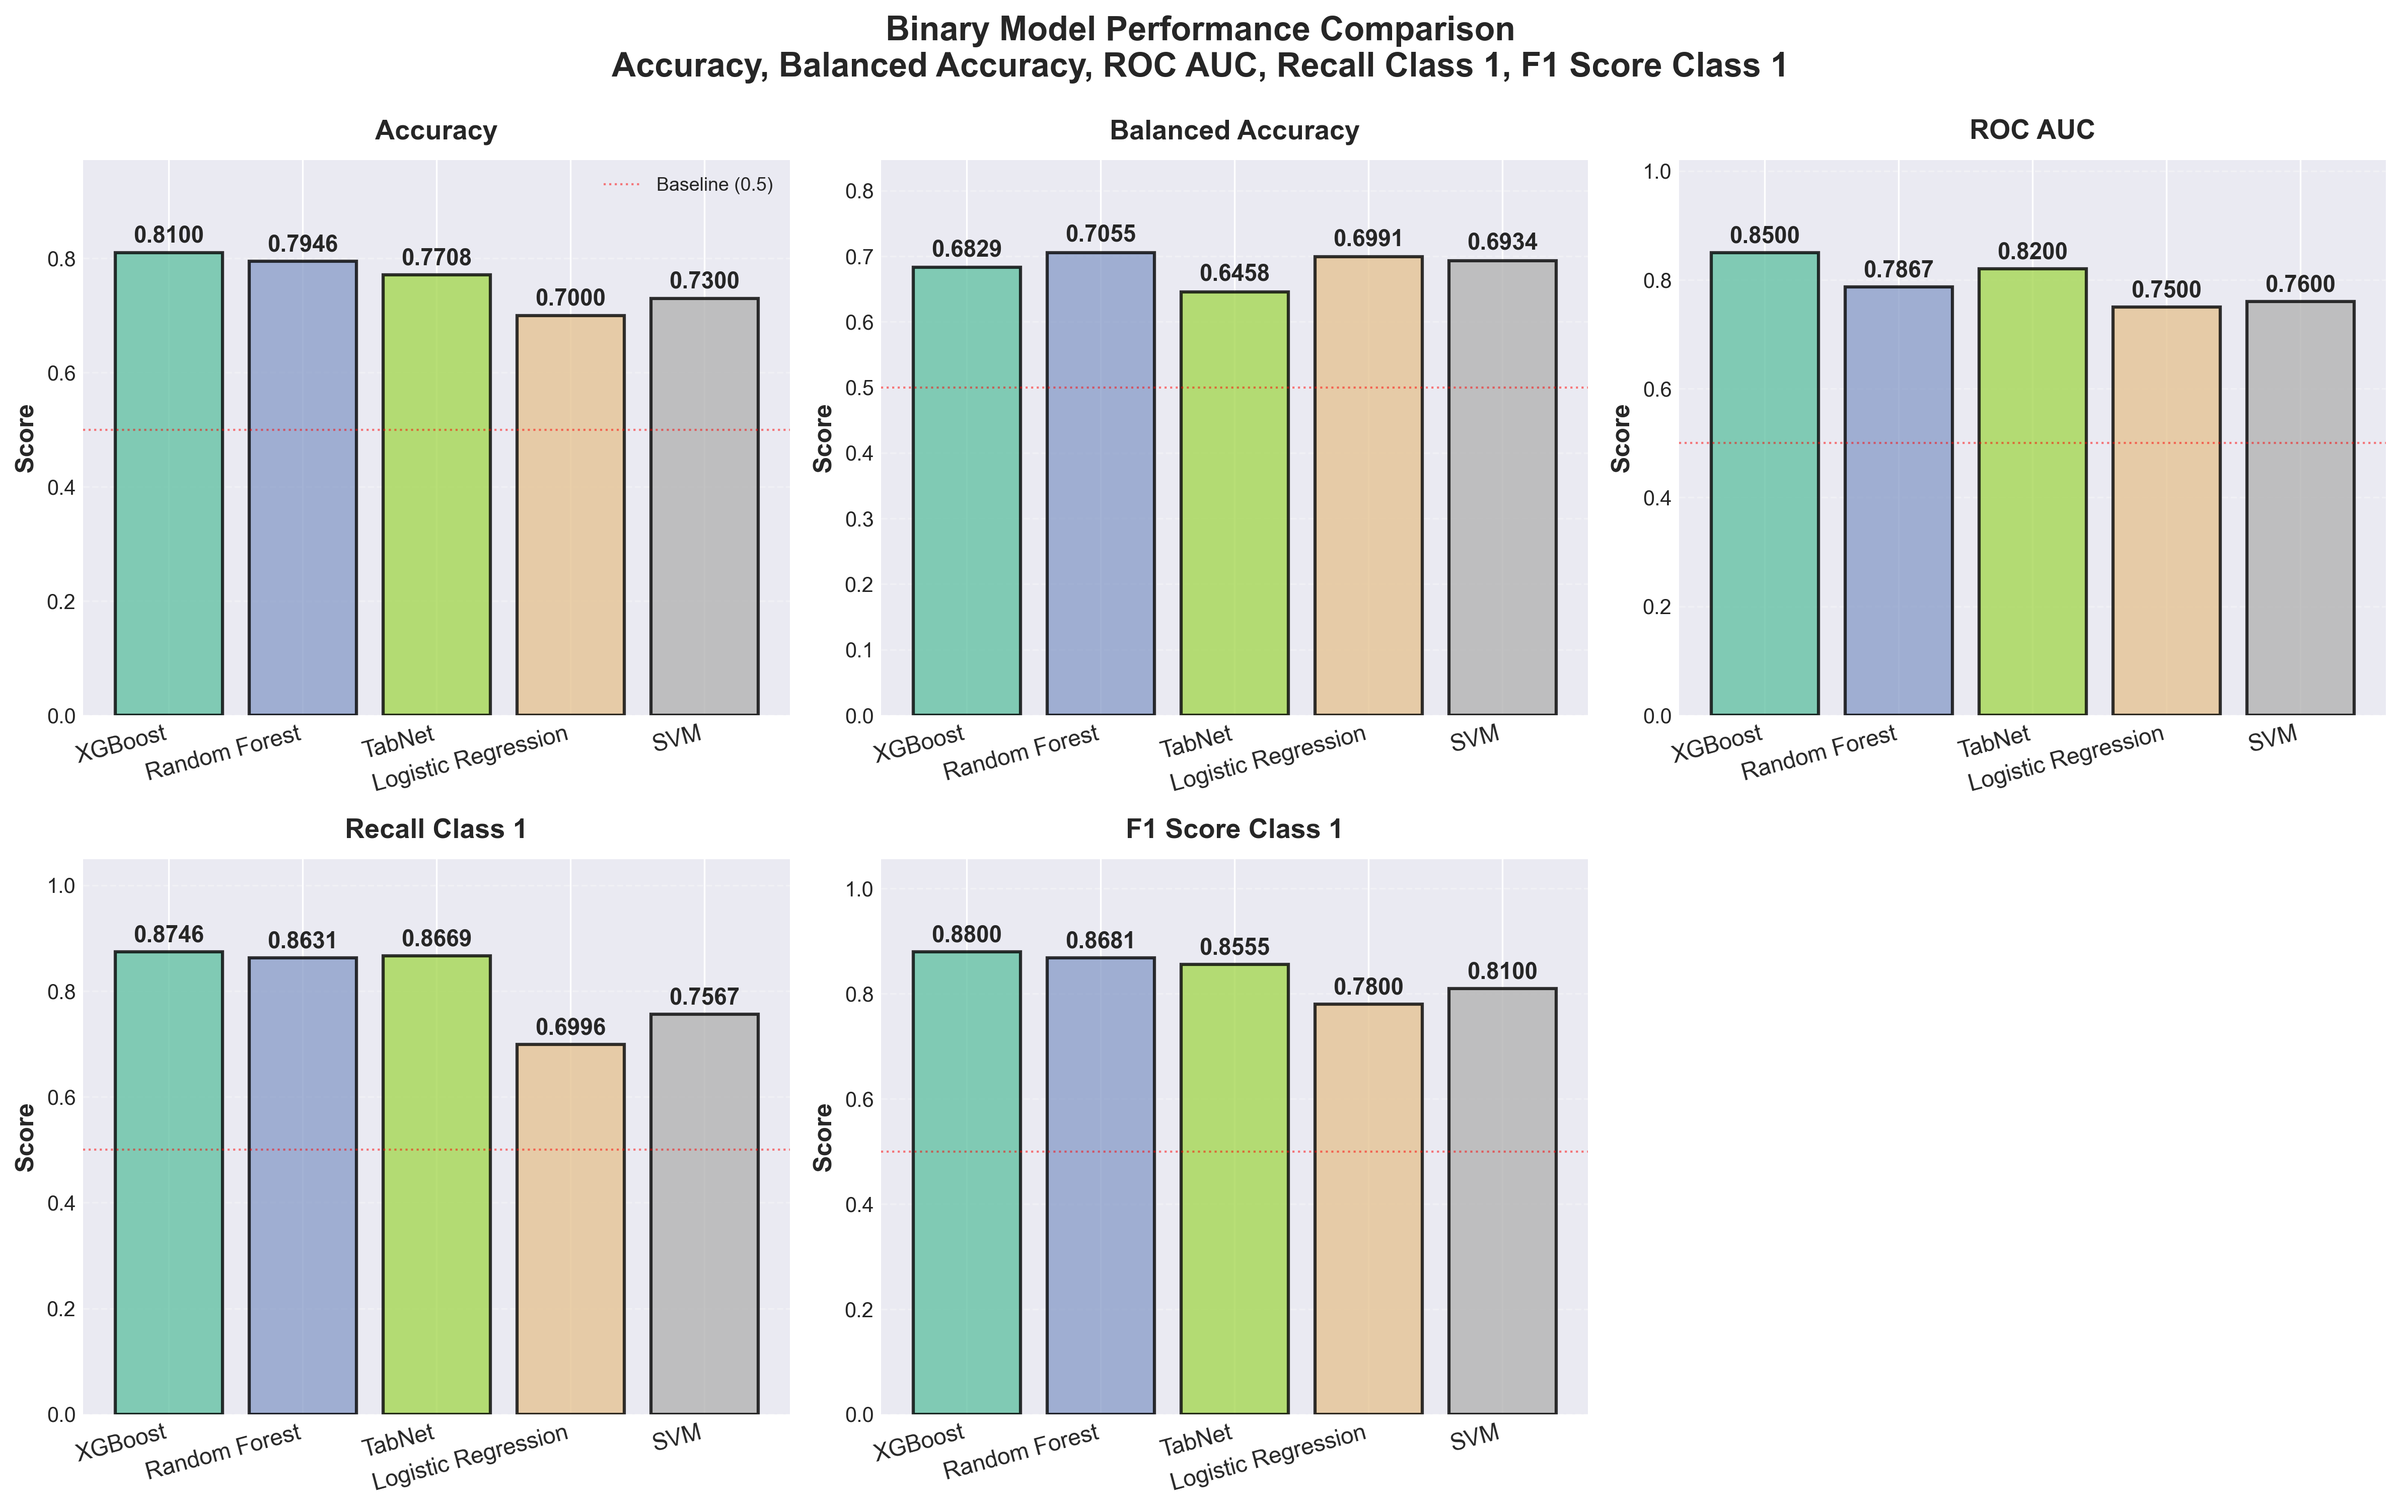
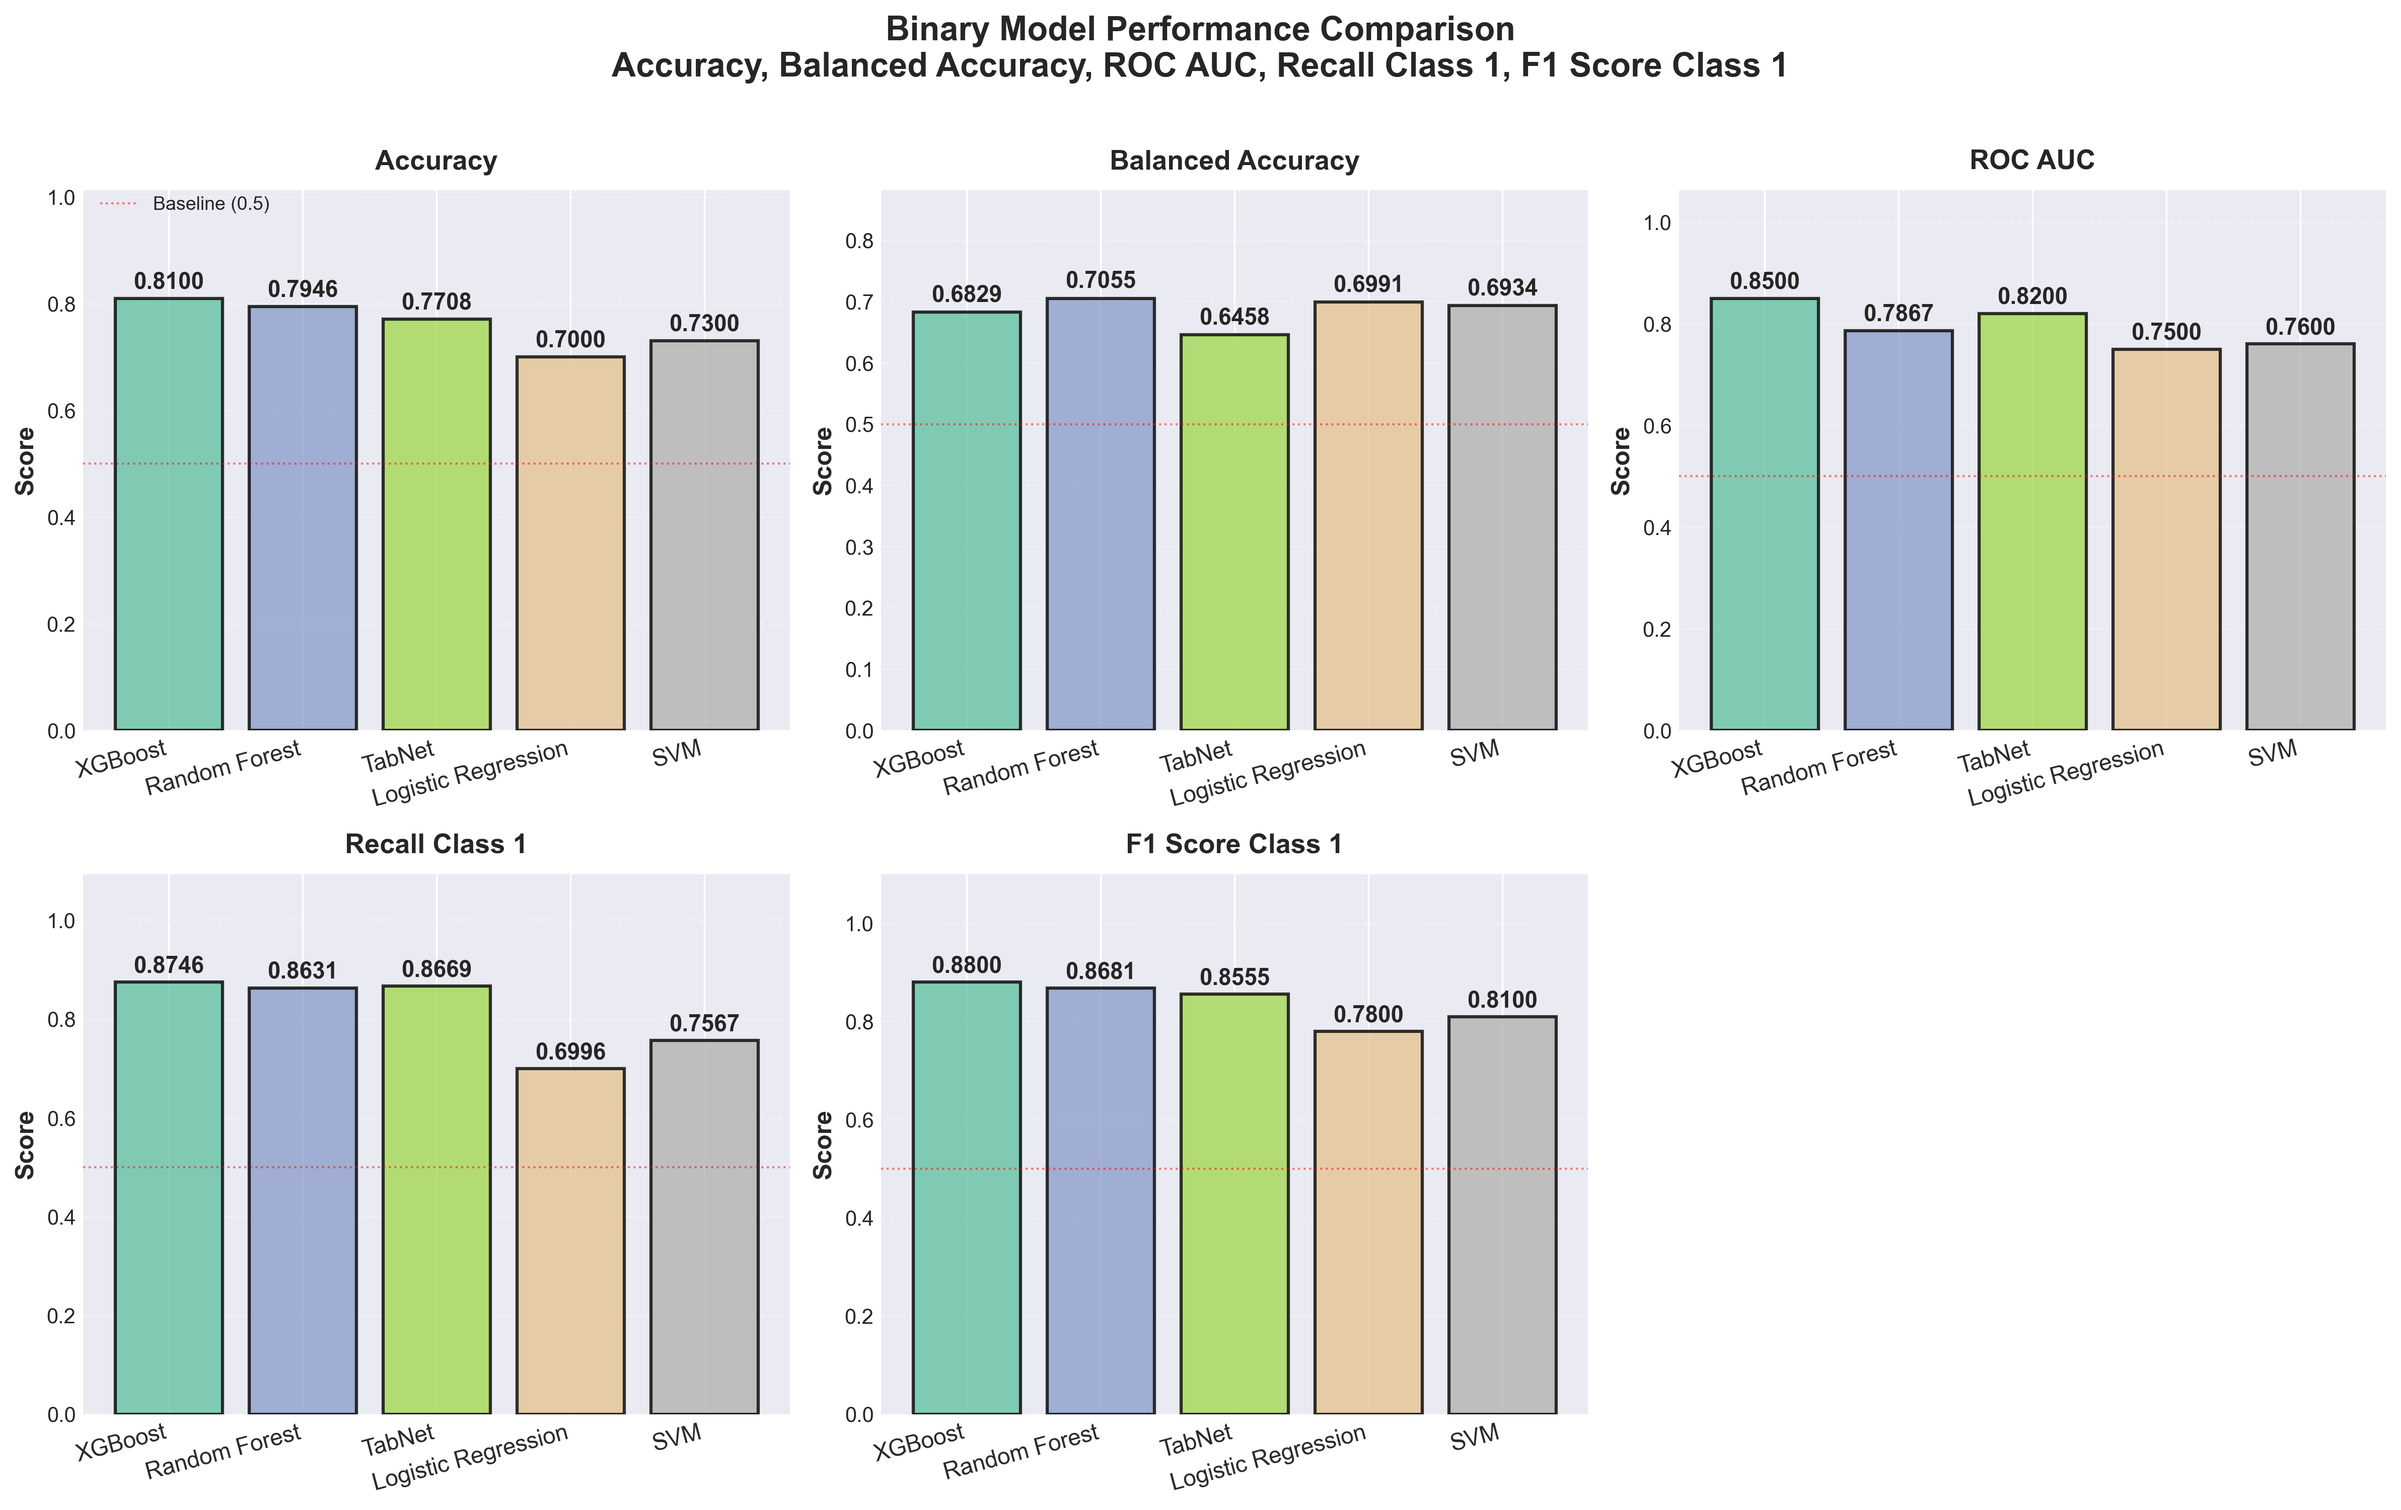
visualization changes

diff --git a/results/binary_model_comparison_visualization.py b/results/binary_model_comparison_visualization.py
@@ -88,16 +88,16 @@ def plot_binary_comparison(figsize=(16, 10)):
         ax.set_xticks(range(len(df)))
         ax.set_xticklabels(df.index, rotation=15, ha='right', fontsize=11)
         ax.grid(True, alpha=0.3, axis='y', linestyle='--')
-        ax.set_ylim([0, max(df[metric].max() * 1.2, 0.8)])
+        ax.set_ylim([0, max(df[metric].max() * 1.25, 0.85)])
         ax.axhline(y=0.5, color='red', linestyle=':', linewidth=1, alpha=0.5, label='Baseline (0.5)')
         if idx == 0:
-            ax.legend(fontsize=9)
+            ax.legend(fontsize=9, loc='upper left', bbox_to_anchor=(0, 1.02), framealpha=0.9)
     
     axes[5].axis('off')
     
     plt.suptitle('Binary Model Performance Comparison\nAccuracy, Balanced Accuracy, ROC AUC, Recall Class 1, F1 Score Class 1', 
                  fontsize=16, fontweight='bold', y=0.995)
-    plt.tight_layout()
+    plt.tight_layout(rect=[0, 0, 1, 0.98])  # Leave space at top for suptitle and legend
     
     return fig, axes
 
@@ -207,11 +207,11 @@ def plot_binary_grouped_bars(figsize=(14, 8)):
                  fontsize=16, fontweight='bold', pad=15)
     ax.set_xticks(x + width * (len(metrics) - 1) / 2)
     ax.set_xticklabels(df.index, fontsize=12, fontweight='bold')
-    ax.legend(loc='upper left', fontsize=11, framealpha=0.9)
+    ax.legend(loc='upper left', bbox_to_anchor=(0, 1.02), fontsize=11, framealpha=0.9, ncol=len(metrics))
     ax.grid(True, alpha=0.3, axis='y', linestyle='--')
-    ax.set_ylim([0, 1])
+    ax.set_ylim([0, 1.05])  # More space for legend
     
-    plt.tight_layout()
+    plt.tight_layout(rect=[0, 0, 1, 0.96])  # Leave space at top for legend
     
     return fig, ax
 

diff --git a/results/multiclass_model_comparison_visualization.py b/results/multiclass_model_comparison_visualization.py
@@ -91,13 +91,13 @@ def plot_multiclass_comparison(figsize=(16, 10)):
         ax.set_ylim([0, max(df[metric].max() * 1.2, 0.8)])
         ax.axhline(y=0.5, color='red', linestyle=':', linewidth=1, alpha=0.5, label='Baseline (0.5)')
         if idx == 0:
-            ax.legend(fontsize=9)
+            ax.legend(fontsize=9, loc='upper left', bbox_to_anchor=(0, 1.02), framealpha=0.9)
     
     axes[5].axis('off')
     
     plt.suptitle('Multiclass Model Performance Comparison\nAccuracy, Balanced Accuracy, ROC AUC, Recall Class 2, F1 Score Class 2', 
                  fontsize=16, fontweight='bold', y=0.995)
-    plt.tight_layout()
+    plt.tight_layout(rect=[0, 0, 1, 0.98])  # Leave space at top for suptitle and legend
     
     return fig, axes
 
@@ -207,11 +207,11 @@ def plot_multiclass_grouped_bars(figsize=(14, 8)):
                  fontsize=16, fontweight='bold', pad=15)
     ax.set_xticks(x + width * (len(metrics) - 1) / 2)
     ax.set_xticklabels(df.index, fontsize=12, fontweight='bold')
-    ax.legend(loc='upper left', fontsize=11, framealpha=0.9)
+    ax.legend(loc='upper left', bbox_to_anchor=(0, 1.02), fontsize=11, framealpha=0.9, ncol=len(metrics))
     ax.grid(True, alpha=0.3, axis='y', linestyle='--')
-    ax.set_ylim([0, 1])
+    ax.set_ylim([0, 1.05])  # More space for legend
     
-    plt.tight_layout()
+    plt.tight_layout(rect=[0, 0, 1, 0.96])  # Leave space at top for legend
     
     return fig, ax
 
